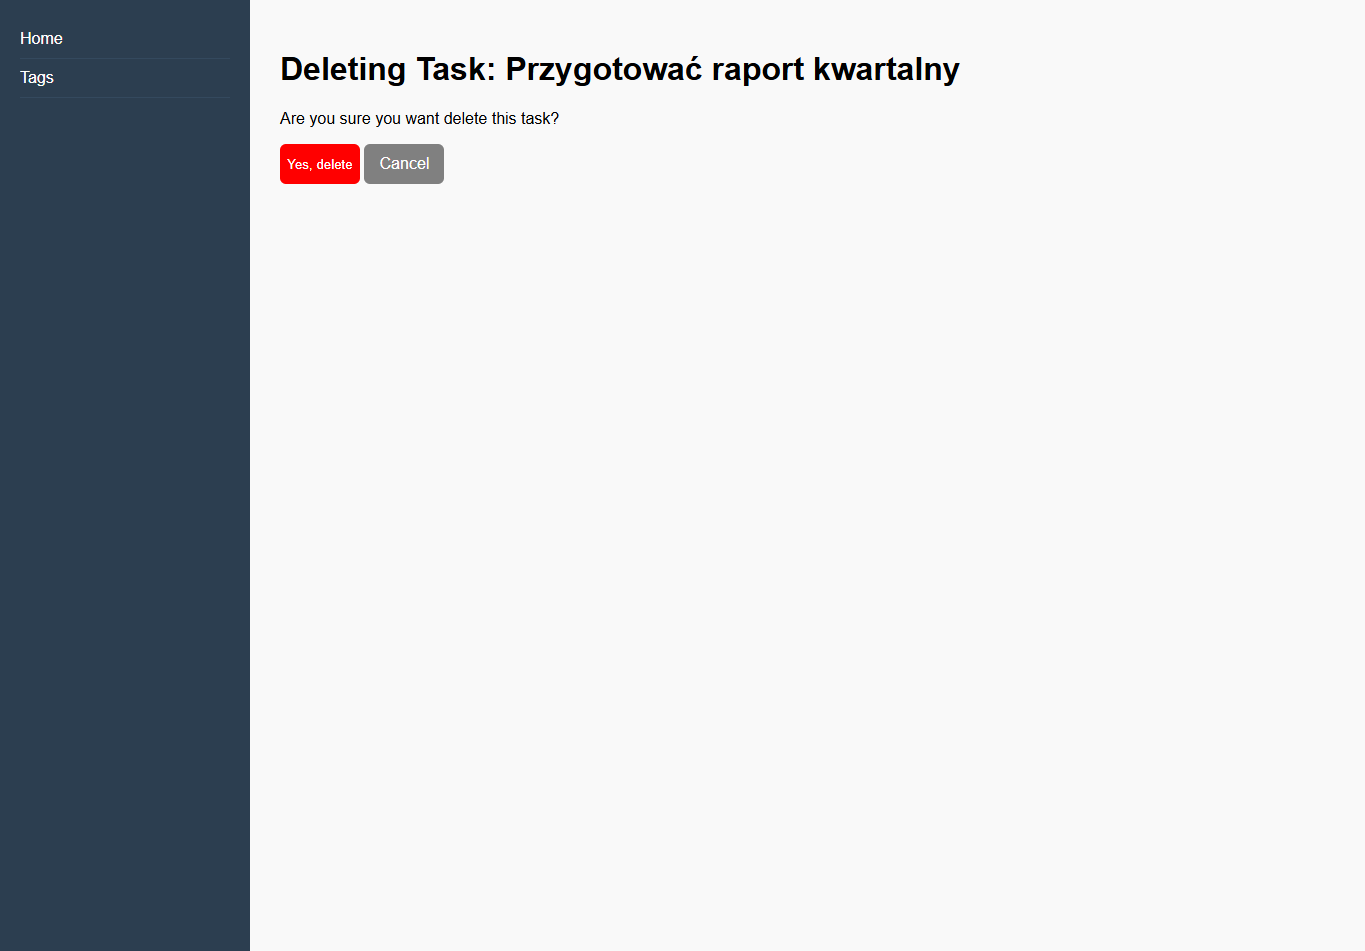
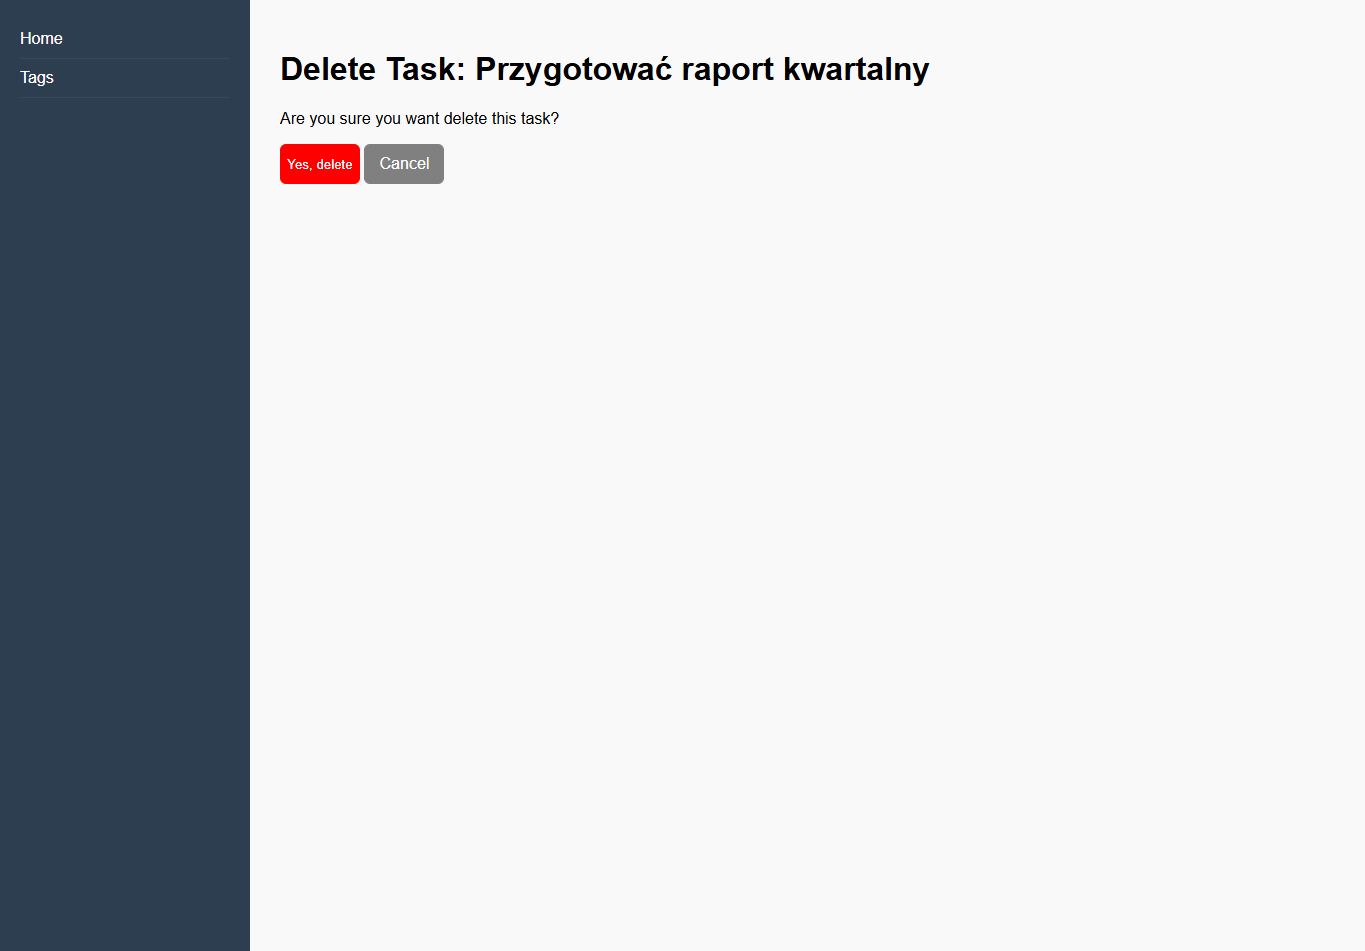
update: README.md

Changed region(s): [[0.2462, 0.061, 0.7077, 0.0915]]

diff --git a/README.md b/README.md
@@ -21,9 +21,9 @@ A simple, intuitive, and fully tested web application for managing tasks and tag
 ![task-list.png](images/task-list.png)
 ![task-detail.png](images/task-detail.png)
 ![add-task.png](images/add-task.png)
-![delete-task.png](../../Desktop/projekt%20django/delete-task.png)
+![delete-task.png](images/delete-task.png)
 
-![tag-table.png](../../Desktop/projekt%20django/tag-table.png)
+![tag-table.png](images/tag-table.png)
 ![tag-delete.png](../../Desktop/projekt%20django/tag-delete.png)
 
 ##  Local Setup
